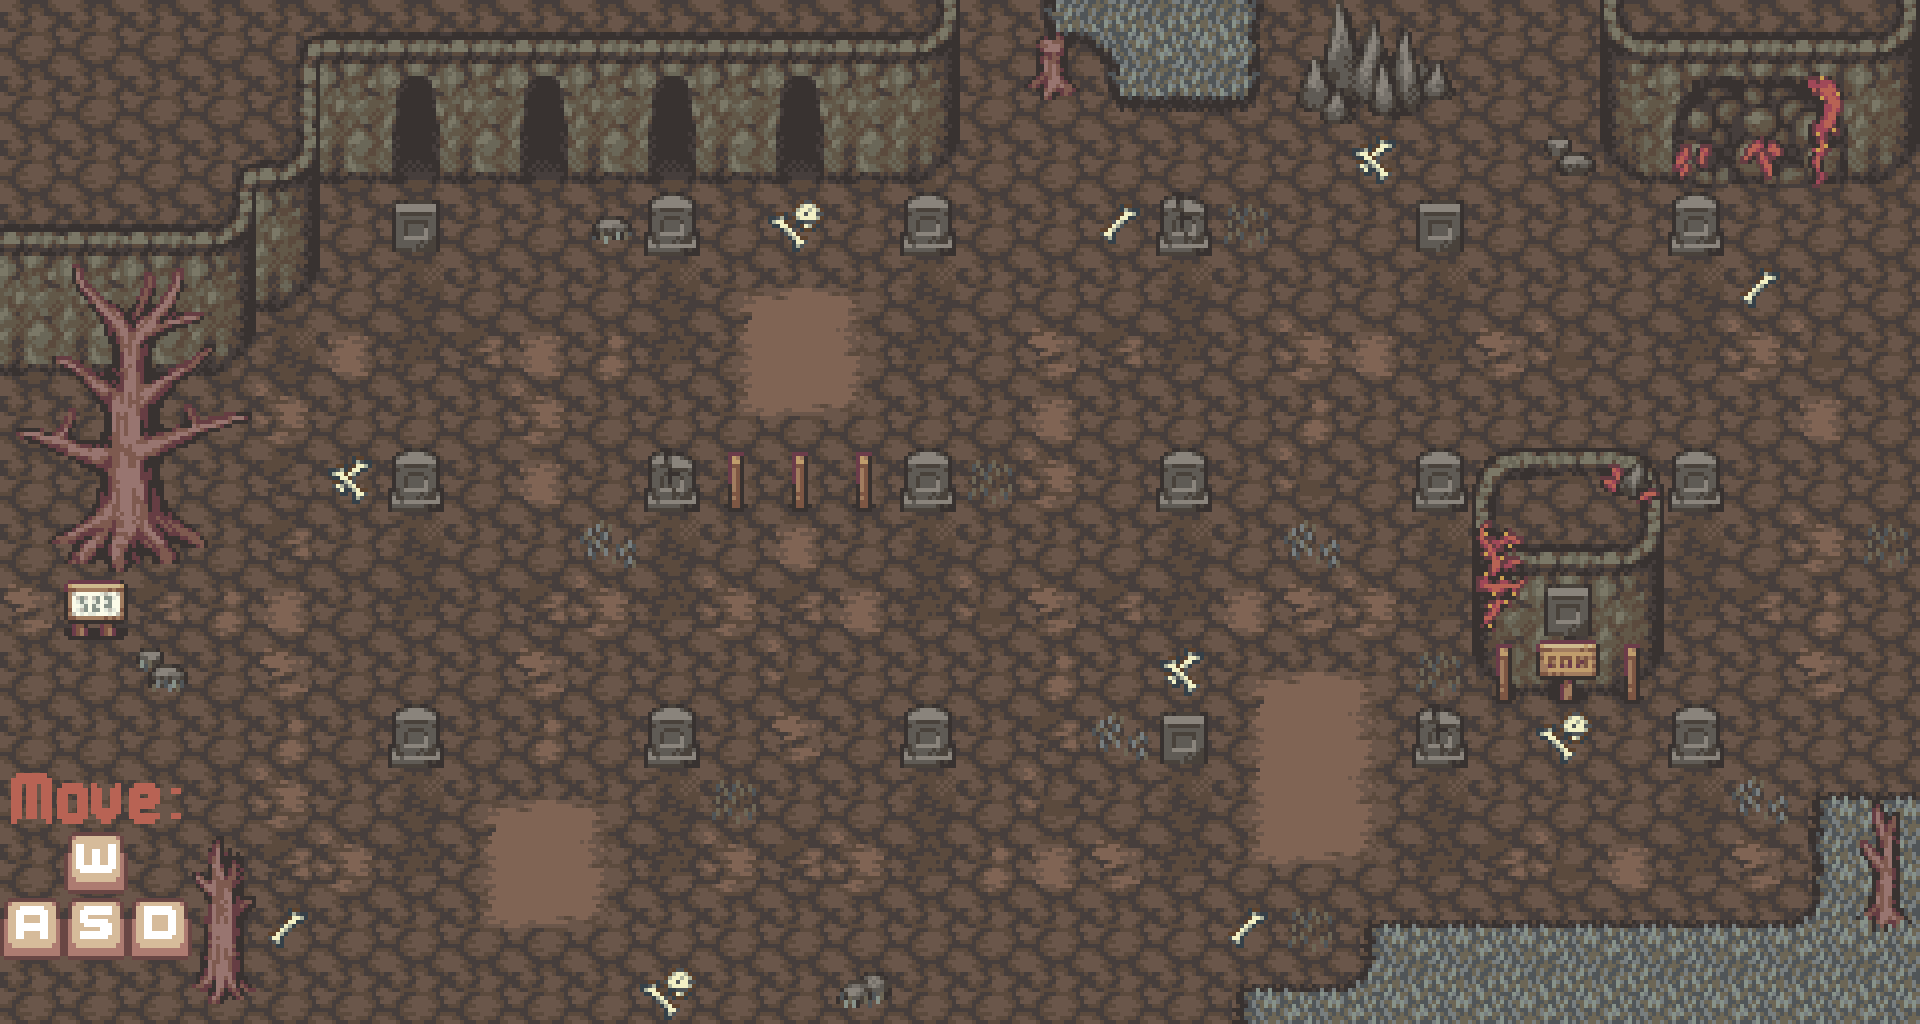
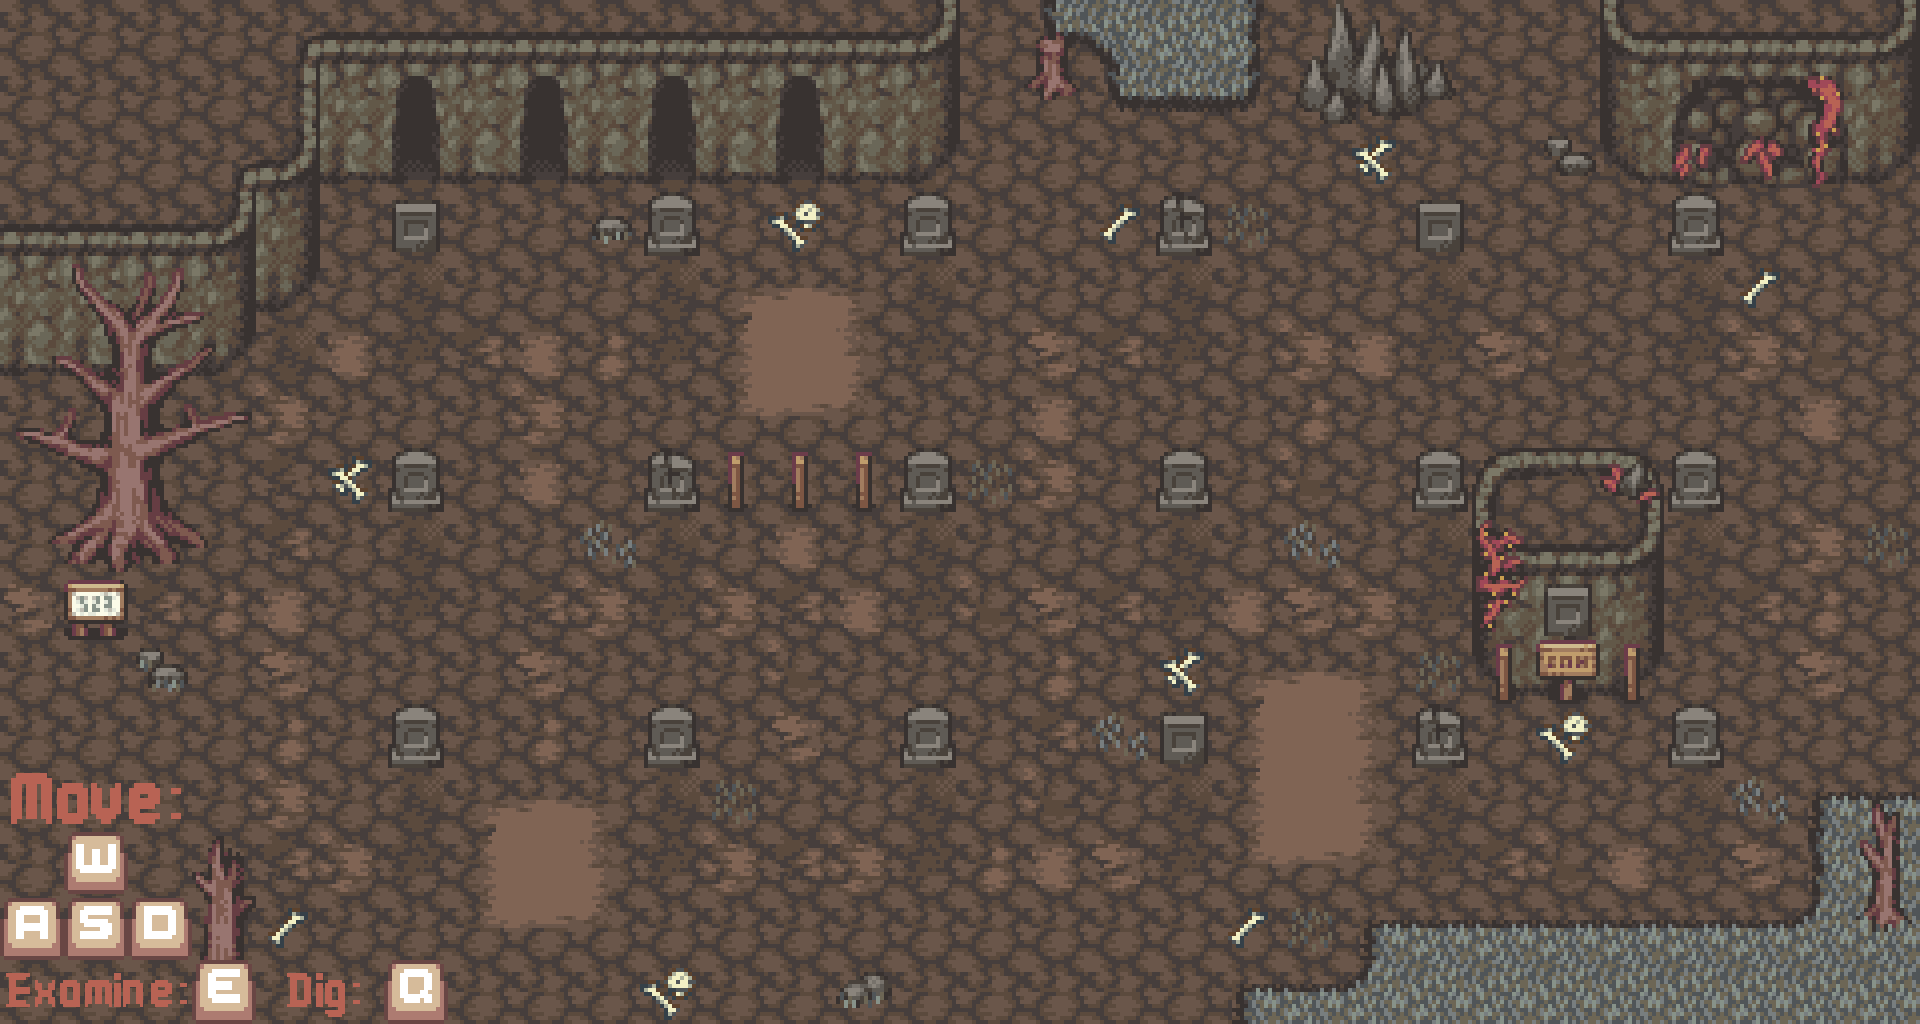
Added more sprites. Working on graves.

Changed region(s): [[0.0, 0.9375, 0.25, 1.0]]

diff --git a/CST205_Final.py b/CST205_Final.py
@@ -114,14 +114,18 @@ class player(character):
       graveyard.reset_map()
       self.map = graveyard.get_map()
       self.draw_self(256,512)
-  """
+  def examine(self):
+    pass
+  def dig(self):
+    pass
+"""
   def update_movement(self):
     current = self.get_pos()
     self.movement["w"] = [current[0],current[1]-128]
     self.movement["a"] = [current[0]-128,current[1]]
     self.movement["s"] = [current[0],current[1]+128]
     self.movement["d"] = [current[0]+128,current[1]]
-  """
+"""
 
 class necro(character):
   sleeping = True
@@ -233,7 +237,25 @@ class map:
       self.coords[str(x)].append(768)
       if not(1472 <= x <= 1600):
         self.coords[str(x)].append(512)
+"""
+class GameState:
+  def __init__(self):
+    self.graves = {}
+    self.target1 = ""
+    self.target2 = ""
+    self.final = "" #Will be the pillar with sign always
+  def set_graves(self):
+    pass
+  def update_necro(self):
+    pass
+"""
+class Grave:
+  def __init__(self):
+    self.position = {"x":0,"y",0}
+    self.opened = False
+    self.clue = ""
     
+
 class images:
   def __init__(self):
     self.library = {
@@ -249,7 +271,9 @@ class images:
       "Title 1" : imageFile+"/Game_Title_Screen.png",
       "Title 2" : imageFile+"/Game_Title_Screen_2.png",
       "Wrong Way" : imageFile+"/Wrong_Way.png",
-      "Game Over" : imageFile+"/Game_Over_Screen.png"
+      "Game Over" : imageFile+"/Game_Over_Screen.png",
+      "Arrow" : imageFile+"/Graveyard_Arrow.png",
+      "Open Grave": imageFile+"Dug_Grave.png"
       #"TK" : imageFile+"",
       #"Ghost" : imageFile+""
     }
@@ -302,8 +326,12 @@ def main():
       graveyard.get_map().hideFrame()
       audio_player("stop","Main")
       return
-    elif temp not in ['w','a','s','d']:
+    elif temp not in ['w','a','s','d','e','q']:
       print "Invalid input!"
+    elif temp == 'e':
+      artemis.examine()
+    elif temp == 'q':
+      artemis.dig()
     else:
       artemis.move(temp)
       erebus.awake()
